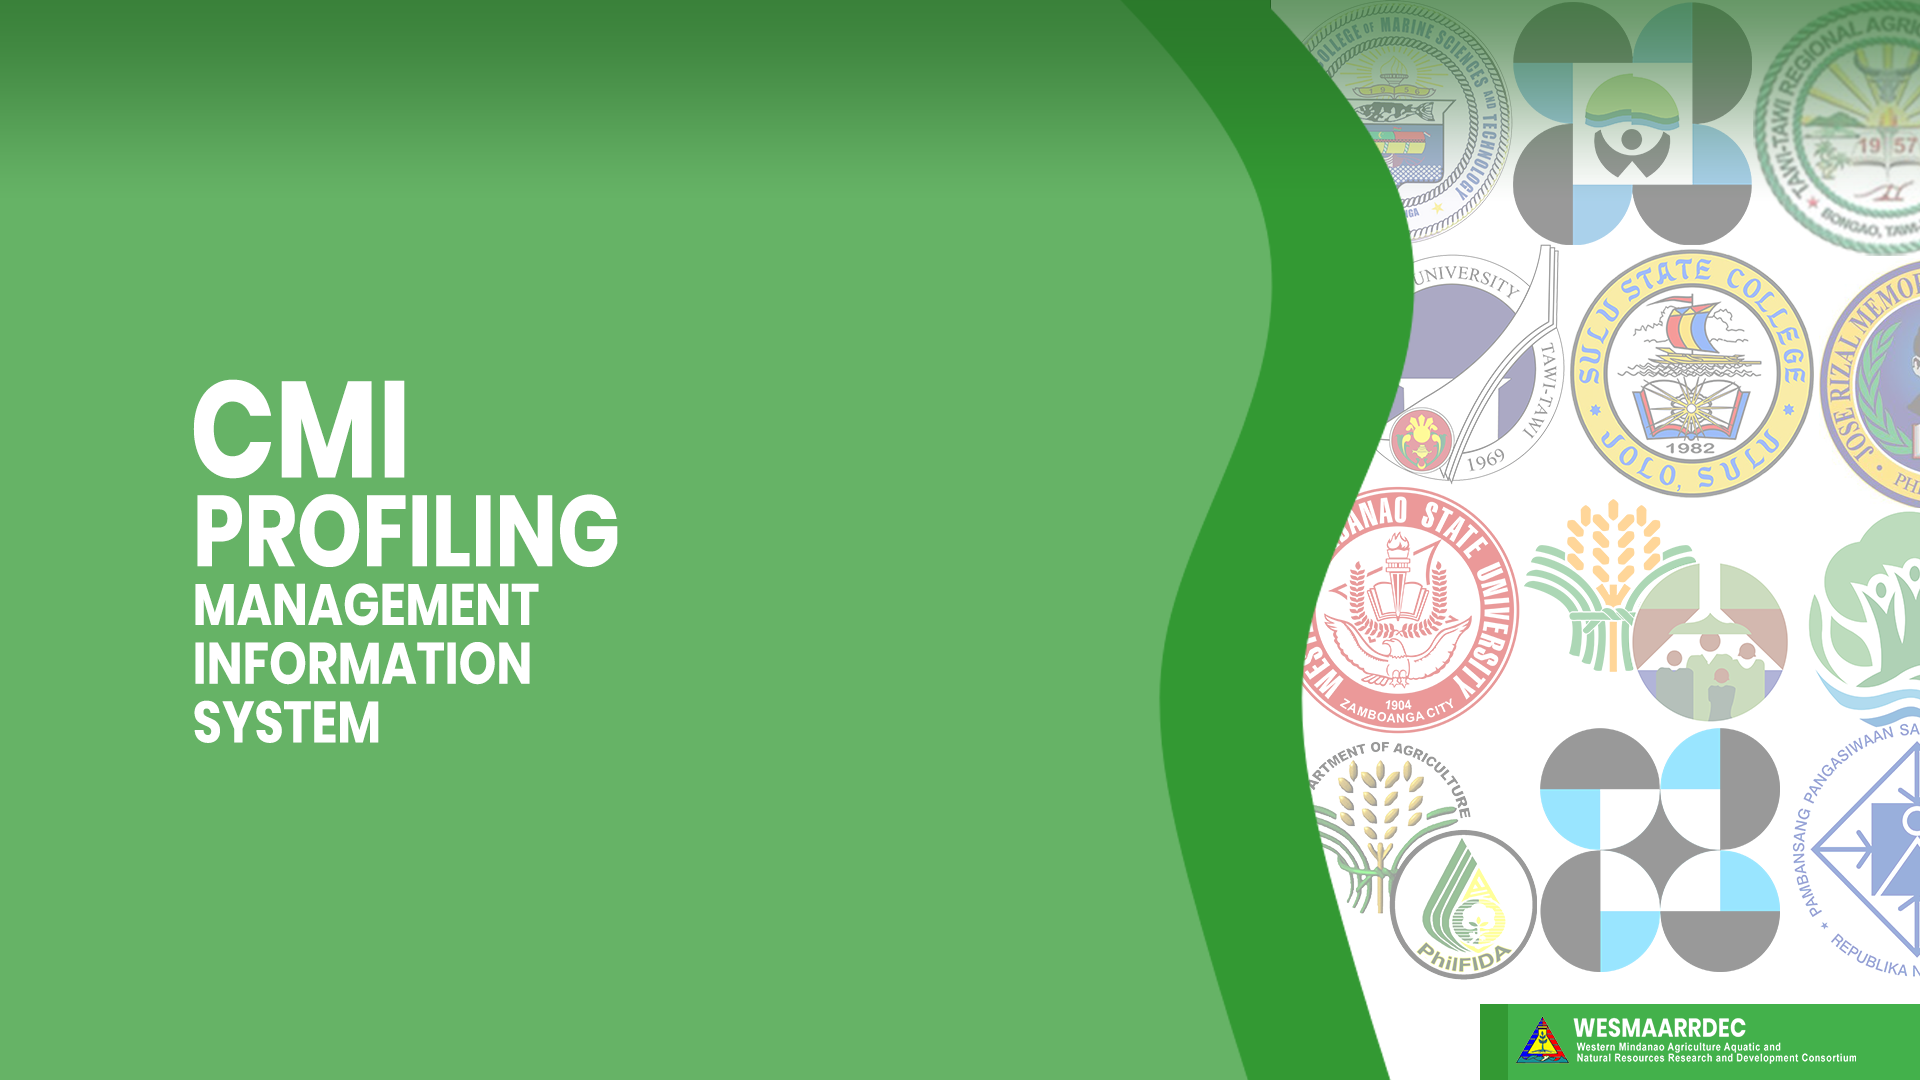
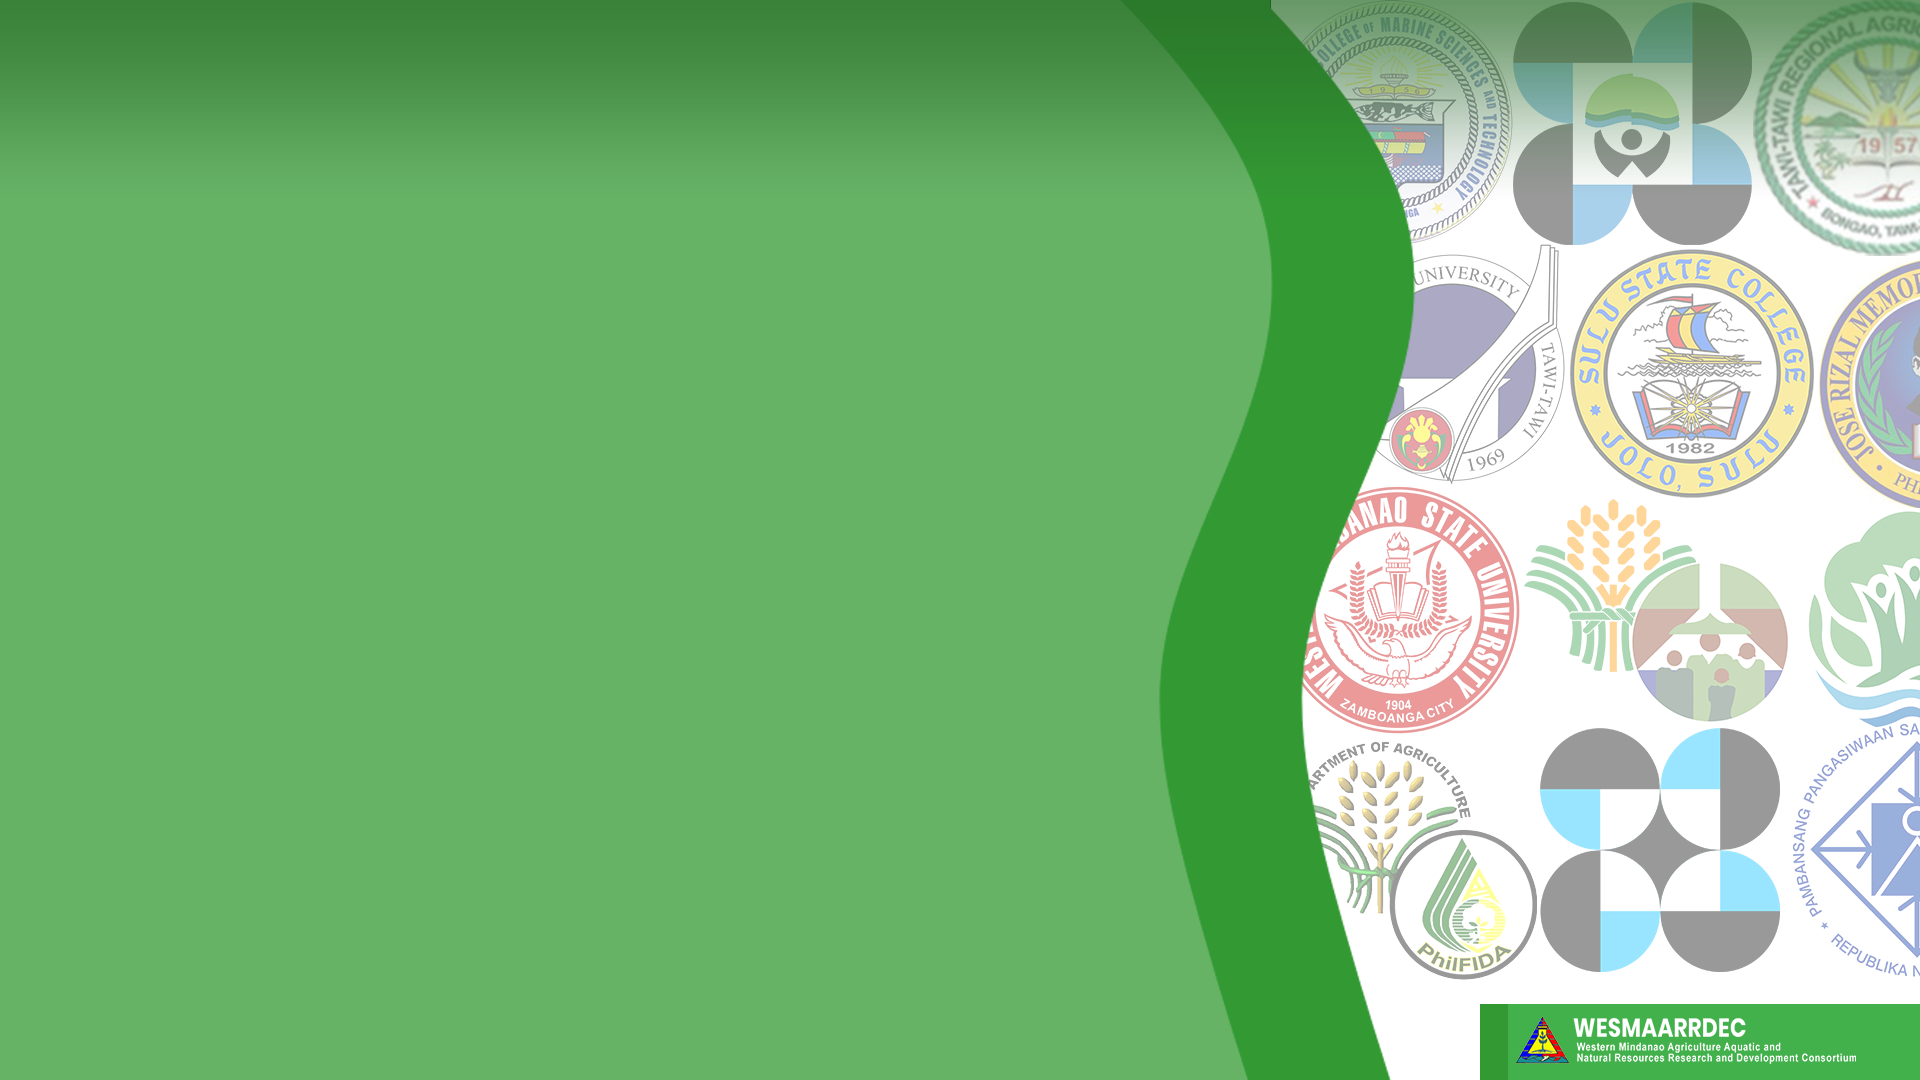
modified the homepage

Changed region(s): [[0.0938, 0.3361, 0.3438, 0.7028]]

diff --git a/static/css/home.css b/static/css/home.css
@@ -7,66 +7,99 @@
 }
 
 body {
-    background-repeat: no-repeat;
-    background-color: #ffffff;
-    background-image: url("https://live.staticflickr.com/65535/49783813212_6b141639ab_b.jpg");
+    background-image: url("/static/images/home.png");
     background-size: cover;
     background-repeat: no-repeat;
+    background-attachment: fixed;
+    background-position: right;
 }
 
-.container {
-    height: 100vh;
-    width: 100%;
-    background: linear-gradient(to right, #93C572 70%, #C8EBB1 30%);
-    position: relative;
-    overflow: hidden;
-}
-.wave {
-    position: absolute;
-    top: 0;
-    right: 30%;
+#nav-placeholder{
+    box-shadow: 0px 5px 10px rgba(8, 36, 3, 0.342);
 }
 
-.main-content {
-    width: 60%;
-    padding-top: 100px;
-    margin-left: 3rem;
-    display: flex;
-    align-items: center;
-    justify-content: space-around;
-}
-.image-pista ,.main-text{
-    flex-basis: 50%;
-}
-.image-pista img{
-    width: 100%;
-}
-.main-content h1 {
-    font-size: 60px;
-    letter-spacing: 1px;
-    color: #494234;
-}
-.main-content p{
-    margin-top: 10px;
-    font-size: 15px;
-    letter-spacing: 1px;
-}
-.main-content button{
-    margin-top: 2.5rem;
-    outline: none;
-    border: none;
-    font-size: 18px;
-    padding: 0.5rem 2.5rem 0.5rem 1rem;
-    border-radius: 0 50% 50% 0;
-    background-color: #494234;
-    color: white;
-    cursor: pointer;
-}
-.swiper{
-    width: 20rem;
-}
-.swiper-slide{
-    display: flex;
+.showcase-area .container {
+    display: grid;
+    grid-template-columns: repeat(2, 1fr);
     align-items: center;
     justify-content: center;
+}
+
+.left{
+    margin-top: 23%;
+}
+
+.left h1, .left h2, .left h3 {
+    line-height: 80%;
+}
+ 
+.showcase-area .container .left h1{
+    padding-top: 14px;
+    font-size: 89px;
+    font-weight: 700;
+    color: #ffffff;
+}
+
+.showcase-area .container .left h2{
+    font-size: 54px;
+    font-weight: 700;
+    color: #ffffff;
+}
+
+.showcase-area .container .left h3{
+    font-size: 26px;
+    font-weight: 600;
+    color: #ffffff;
+}
+
+@media screen and (max-width: 870px) {
+    .left{
+        margin-top: 15%;
+        padding: 10px;
+        background-color: #008000;
+    }
+    .showcase-area {
+      padding: 2.5rem 0;
+      max-width: 700px;
+      margin: 0 auto;
+    }
+  
+    .showcase-area .container {
+      grid-template-columns: 1fr;
+      justify-content: center;
+      grid-gap: 2rem;
+    }
+
+}
+
+@media screen and (max-width: 470px) {
+    .left{
+        padding: 10px;
+        background-color: #008000;
+    }
+
+    .left h1, .left h2, .left h3 {
+        line-height: 70%;
+        text-align: center;
+    }
+     
+    .showcase-area .container .left h1{
+        padding-top: 14px;
+        font-size: 55px;
+        font-weight: 700;
+        color: #ffffff;
+    }
+    
+    .showcase-area .container .left h2{
+        font-size: 40px;
+        font-weight: 700;
+        color: #ffffff;
+    }
+    
+    .showcase-area .container .left h3{
+        font-size: 23px;
+        font-weight: 600;
+        color: #ffffff;
+    }
+
 }

diff --git a/sub/templates/sub/homepage.html b/sub/templates/sub/homepage.html
@@ -4,7 +4,7 @@
     <head>
         {% load static %}
         <meta charset="UTF-8">
-        <link rel="stylesheet" href="{% static 'css/#.css' %}">
+        <link rel="stylesheet" href="{% static 'css/home.css' %}">
         <link rel="stylesheet" href="{% static 'bootstrap/bootstrap.min.css' %}">
         <link href='https://unpkg.com/boxicons@2.1.4/css/boxicons.min.css' rel='stylesheet'>
         <meta name="viewport" content="width=device-width, initial-scale=1.0">
@@ -12,20 +12,31 @@
         <link rel="stylesheet" href="https://cdn.jsdelivr.net/npm/bootstrap@5.3.0-alpha1/dist/css/bootstrap.min.css" rel="stylesheet" integrity="sha384-GLhlTQ8iRABdZLl6O3oVMWSktQOp6b7In1Zl3/Jr59b6EGGoI1aFkw7cmDA6j6gD" crossorigin="anonymous">
         <link href="{% static 'images/wesmalogo.png' %}" rel="icon">
         <title>WESMAARRDEC</title>
-        <style>
+        <!-- <style>
           body {
             background-image: url("{% static 'images/home.png' %}");
+            background-size: cover;
             background-repeat: no-repeat;
             background-attachment: fixed;
-            background-size: 100% 100%;
+            background-position: right;
           }
-          </style>
+          </style> -->
     </head>
 
     <body>
         <div id="nav-placeholder"></div>
 
-      
+        <div class="showcase-area">
+          <div class="container">
+            <div class="left">
+                <h1>CMI</h1>
+                <h2>PROFILING</h2>
+                <h3>MANAGEMENT</h3>
+                <h3>INFORMATION</h3>
+                <h3>SYSTEM</h3>
+            </div>
+          </div>
+        </div>
 
         <script>
             $(function(){
